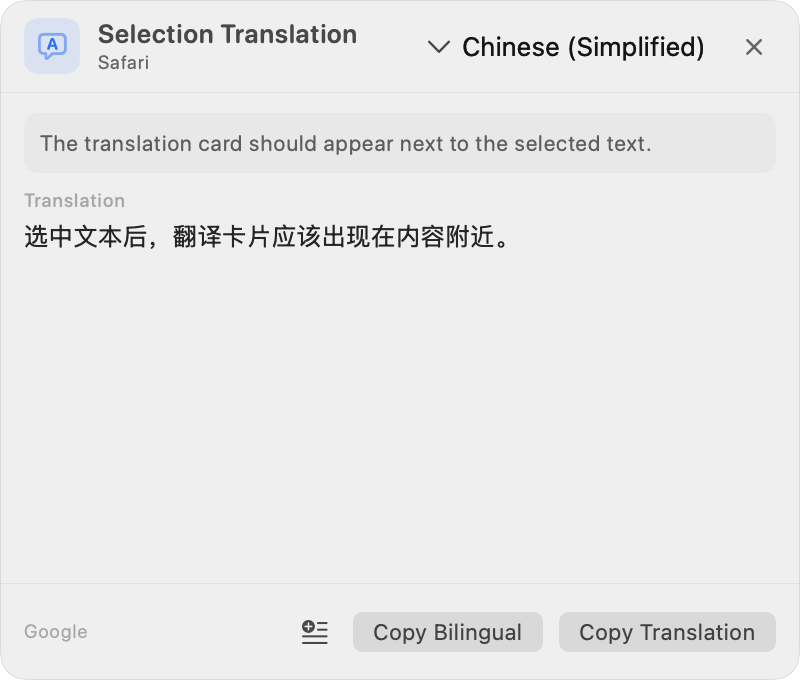
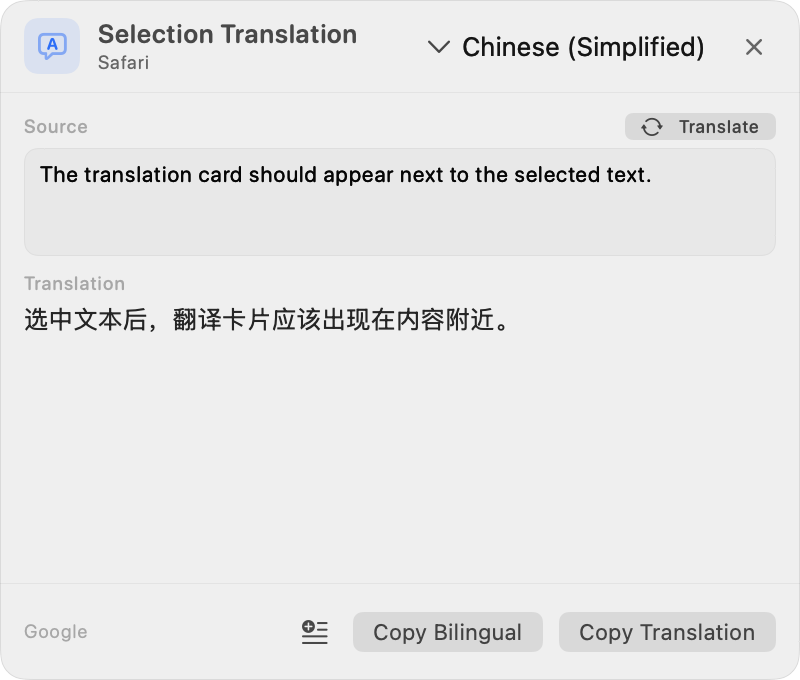
feat: edit source text in selection translation card
- Make the source field editable and add a Translate button with Command-Return

- Mark stale results and disable copy actions until edited text is translated

- Route retry, consent, and language changes through the edited draft

- Allow Command-C to copy selected text while editing

- Refresh the selection card screenshots and docs

diff --git a/HaoPaste/Views/Selection/SelectionTranslationCardView.swift b/HaoPaste/Views/Selection/SelectionTranslationCardView.swift
@@ -18,6 +18,7 @@ struct SelectionTranslationCardView: View {
 
     @Environment(\.accessibilityReduceMotion) private var reduceMotion
     @State private var appeared = false
+    @State private var draftSource = ""
 
     var body: some View {
         VStack(spacing: 0) {
@@ -38,12 +39,21 @@ struct SelectionTranslationCardView: View {
         .scaleEffect(appeared ? 1 : 0.96, anchor: .topLeading)
         .opacity(appeared ? 1 : 0)
         .onAppear {
+            draftSource = service.sourceText
             withAnimation(
                 reduceMotion || DebugMotion.disablesAnimations
                     ? nil
                     : Theme.spring
             ) {
                 appeared = true
+            }
+        }
+        .onChange(of: service.sourceText) { _, newValue in
+            draftSource = newValue
+        }
+        .onChange(of: service.isPresenting) { _, isPresenting in
+            if isPresenting {
+                draftSource = service.sourceText
             }
         }
     }
@@ -80,7 +90,7 @@ struct SelectionTranslationCardView: View {
             Menu {
                 ForEach(TranslationLanguage.all) { language in
                     Button(language.name) {
-                        service.setTargetLanguage(language, persist: false)
+                        selectTargetLanguage(language)
                     }
                 }
             } label: {
@@ -96,6 +106,7 @@ struct SelectionTranslationCardView: View {
             .menuStyle(.borderlessButton)
             .menuIndicator(.hidden)
             .fixedSize()
+            .disabled(isSourceEmpty)
 
             Button(action: onClose) {
                 Image(systemName: "xmark")
@@ -114,16 +125,7 @@ struct SelectionTranslationCardView: View {
     @ViewBuilder
     private var content: some View {
         VStack(alignment: .leading, spacing: 8) {
-            Text(service.sourceText)
-                .font(.system(size: 11, design: .rounded))
-                .foregroundStyle(.secondary)
-                .lineLimit(3)
-                .frame(maxWidth: .infinity, alignment: .leading)
-                .padding(8)
-                .background {
-                    RoundedRectangle(cornerRadius: 7, style: .continuous)
-                        .fill(Color.primary.opacity(0.035))
-                }
+            sourceSection
 
             switch service.phase {
             case .consentRequired:
@@ -151,10 +153,11 @@ struct SelectionTranslationCardView: View {
 
                     HStack(spacing: 8) {
                         Button(L("重试")) {
-                            service.retry()
+                            translateDraft()
                         }
                         .buttonStyle(.bordered)
                         .controlSize(.small)
+                        .disabled(isSourceEmpty)
 
                         Button(L("打开翻译设置…"), action: onOpenSettings)
                             .buttonStyle(.bordered)
@@ -177,6 +180,7 @@ struct SelectionTranslationCardView: View {
                     }
                     .scrollIndicators(.never)
                 }
+                .opacity(isDirty ? 0.55 : 1)
 
             case .idle:
                 Text(L("等待翻译"))
@@ -188,6 +192,112 @@ struct SelectionTranslationCardView: View {
         .padding(.horizontal, 12)
         .padding(.vertical, 10)
         .frame(maxWidth: .infinity, maxHeight: .infinity)
+    }
+
+    private var sourceSection: some View {
+        VStack(alignment: .leading, spacing: 4) {
+            HStack(spacing: 6) {
+                Text(L("原文"))
+                    .font(.system(size: 9.5, weight: .medium, design: .rounded))
+                    .foregroundStyle(.tertiary)
+
+                if isDirty {
+                    Text(L("未更新"))
+                        .font(.system(size: 8.5, weight: .medium, design: .rounded))
+                        .foregroundStyle(.orange)
+                        .padding(.horizontal, 5)
+                        .frame(height: 14)
+                        .background {
+                            Capsule().fill(Color.orange.opacity(0.10))
+                        }
+                }
+
+                Spacer(minLength: 4)
+
+                Button {
+                    translateDraft()
+                } label: {
+                    Label(L("翻译"), systemImage: "arrow.triangle.2.circlepath")
+                        .font(.system(size: 9, weight: .medium, design: .rounded))
+                }
+                .buttonStyle(.bordered)
+                .controlSize(.mini)
+                .keyboardShortcut(.return, modifiers: .command)
+                .help(L("翻译（⌘↩）"))
+                .disabled(isSourceEmpty || service.phase == .translating)
+            }
+
+            TextField("", text: $draftSource, axis: .vertical)
+                .textFieldStyle(.plain)
+                .font(.system(size: 11, design: .rounded))
+                .foregroundStyle(.primary)
+                .lineLimit(2...4)
+                .frame(
+                    maxWidth: .infinity,
+                    minHeight: 42,
+                    alignment: .topLeading
+                )
+                .padding(.horizontal, 8)
+                .padding(.vertical, 6)
+                .background {
+                    RoundedRectangle(cornerRadius: 7, style: .continuous)
+                        .fill(Color.primary.opacity(0.035))
+                }
+                .overlay {
+                    RoundedRectangle(cornerRadius: 7, style: .continuous)
+                        .strokeBorder(
+                            Color.primary.opacity(isDirty ? 0.12 : 0.05),
+                            lineWidth: Theme.hairline
+                        )
+                }
+                .accessibilityLabel(L("原文"))
+        }
+    }
+
+    private var isDirty: Bool {
+        draftSource != service.sourceText
+    }
+
+    private var isSourceEmpty: Bool {
+        draftSource.trimmingCharacters(in: .whitespacesAndNewlines).isEmpty
+    }
+
+    private func translateDraft() {
+        let trimmed = draftSource.trimmingCharacters(
+            in: .whitespacesAndNewlines
+        )
+        guard !trimmed.isEmpty else { return }
+
+        draftSource = trimmed
+        service.sourceText = trimmed
+        service.detectedSourceID = nil
+        service.startTranslation(force: true)
+    }
+
+    private func selectTargetLanguage(_ language: TranslationLanguage) {
+        let trimmed = draftSource.trimmingCharacters(
+            in: .whitespacesAndNewlines
+        )
+        if !trimmed.isEmpty, trimmed != service.sourceText {
+            draftSource = trimmed
+            service.sourceText = trimmed
+            service.detectedSourceID = nil
+        }
+        service.setTargetLanguage(language, persist: false)
+    }
+
+    private func grantConsentAndTranslateDraft() {
+        let trimmed = draftSource.trimmingCharacters(
+            in: .whitespacesAndNewlines
+        )
+        guard !trimmed.isEmpty else { return }
+
+        if trimmed != service.sourceText {
+            draftSource = trimmed
+            service.sourceText = trimmed
+            service.detectedSourceID = nil
+        }
+        service.grantConsentAndTranslate()
     }
 
     private var consentContent: some View {
@@ -216,11 +326,12 @@ struct SelectionTranslationCardView: View {
                     .controlSize(.small)
 
                 Button(L("允许并翻译")) {
-                    service.grantConsentAndTranslate()
+                    grantConsentAndTranslateDraft()
                 }
                 .buttonStyle(.borderedProminent)
                 .controlSize(.small)
                 .tint(Color.accentColor)
+                .disabled(isSourceEmpty)
             }
         }
         .frame(maxWidth: .infinity, maxHeight: .infinity)
@@ -248,14 +359,14 @@ struct SelectionTranslationCardView: View {
             }
             .buttonStyle(.plain)
             .help(L("保存片段"))
-            .disabled(service.resultText.isEmpty)
+            .disabled(service.resultText.isEmpty || isDirty)
 
             Button(L("复制双语")) {
                 onCopyBilingual()
             }
             .buttonStyle(.bordered)
             .controlSize(.small)
-            .disabled(service.resultText.isEmpty)
+            .disabled(service.resultText.isEmpty || isDirty)
 
             Button(L("复制译文")) {
                 onCopyTranslation()
@@ -263,7 +374,7 @@ struct SelectionTranslationCardView: View {
             .buttonStyle(.borderedProminent)
             .controlSize(.small)
             .tint(Color.accentColor)
-            .disabled(service.resultText.isEmpty)
+            .disabled(service.resultText.isEmpty || isDirty)
         }
         .padding(.horizontal, 12)
         .frame(height: 48)

diff --git a/HaoPaste/Services/SelectionTranslation/SelectionTranslationController.swift b/HaoPaste/Services/SelectionTranslation/SelectionTranslationController.swift
@@ -553,6 +553,9 @@ final class SelectionTranslationController: NSObject, NSWindowDelegate {
                 return nil
             }
             if flags == .command, event.keyCode == 8 { // C
+                if self.cardPanel.firstResponder is NSTextView {
+                    return event
+                }
                 self.copyTranslation()
                 return nil
             }

diff --git a/CHANGELOG.md b/CHANGELOG.md
@@ -38,6 +38,7 @@
 ### 中文
 
 - 划词图标改为自绘的方向性翻译气泡：保持 A / 文 正向，并根据图标相对选区的位置让气泡尾巴朝向下、上、左或右；优先显示在选区上方，空间不足时依次回退到下方、右侧或左侧。
+- 划词翻译卡片中的原文现在可以直接编辑；修改后点击「翻译」或按 `⌘↩` 重新翻译。原文未提交修改时译文会淡化，复制按钮暂时禁用。
 - 调整图标比例，加宽 A 气泡、缩短尾巴，并修正点击图标偶发不弹出翻译的问题：忽略图标区域内的外部点击、开卡时短暂抑制重新检测选区，并把图标与卡片提升到 pop-up 窗口层级，避免被其他应用的选区弹窗拦截。
 - 移除无效的手型光标尝试；保留悬停高亮与轻微缩放反馈。
 - 新增方向性图标与四向布局测试；128 个 XCTest。
@@ -45,6 +46,7 @@
 ### English
 
 - Replaced the fixed-tail SF Symbol with a custom directional translate glyph: the A / 文 bubbles stay upright while the tail points down, up, left, or right based on the icon's position relative to the selection. The icon prefers above, then below, right, and left.
+- The source text in the selection translation card is now editable. Edit it and click **Translate** or press `⌘↩` to translate again; while changes are unsubmitted, the translation dims and copy actions are disabled.
 - Rebalanced the icon proportions, widened the A bubble, shortened the tail, and fixed an occasional failure where clicking the icon did not open translation: clicks inside the icon are no longer treated as outside interactions, selection checks are briefly suppressed while the card opens, and the icon/card now use a pop-up window level so other apps' selection popovers cannot intercept the click.
 - Removed the ineffective pointing-hand cursor attempt; hover highlight and slight scaling remain.
 - Added directional icon and four-way placement tests; 128 XCTest cases.

diff --git a/README.en.md b/README.en.md
@@ -130,6 +130,7 @@ Open the **Snippets** tab in the panel and click **New Snippet**, or right-click
 - Select text with the mouse to show a small translate icon. Selected text is read and translated only after clicking the icon.
 - The icon stays visible while hovered, highlights and scales slightly to signal that it is clickable, and hides 2 seconds after the pointer leaves.
 - The tail points down, up, left, or right depending on where the icon sits relative to the selected text.
+- The source text in the selection translation card is editable; click **Translate** or press `⌘↩` to translate the edited text.
 - The translation card opens near the selection instead of being fixed to the screen center.
 - It never simulates `⌘C` or copies automatically; normal copy shortcuts keep working.
 - Skipped in full-screen apps, secure input, excluded apps, and HaoPaste itself.
